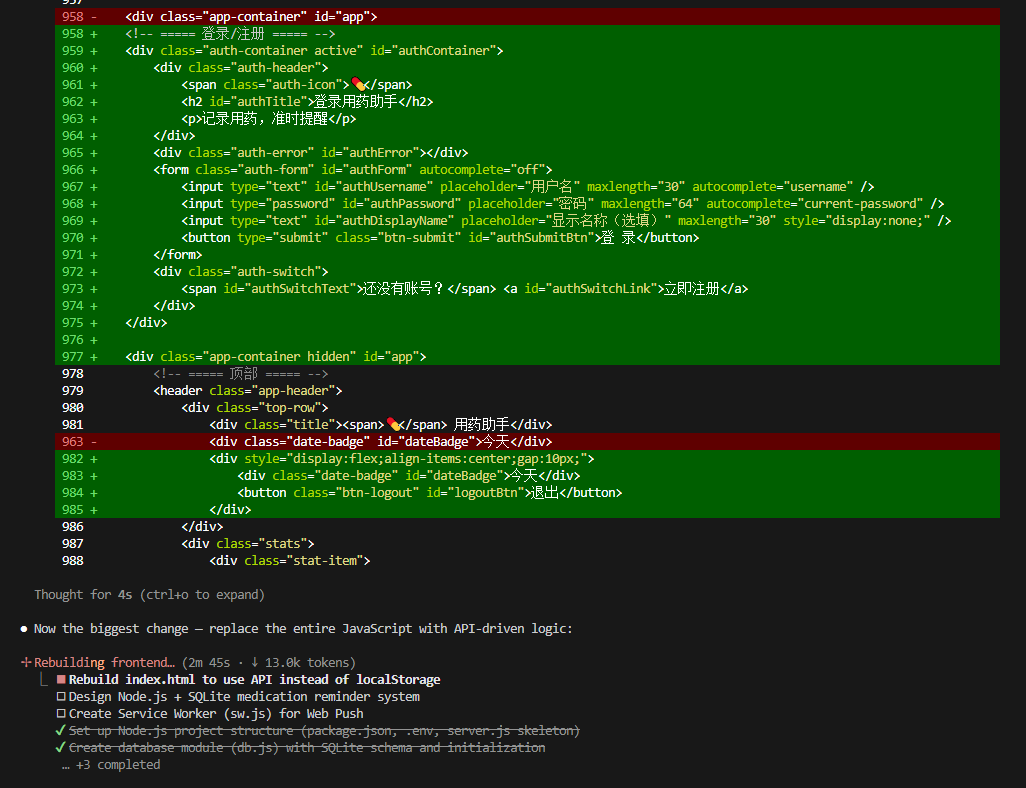
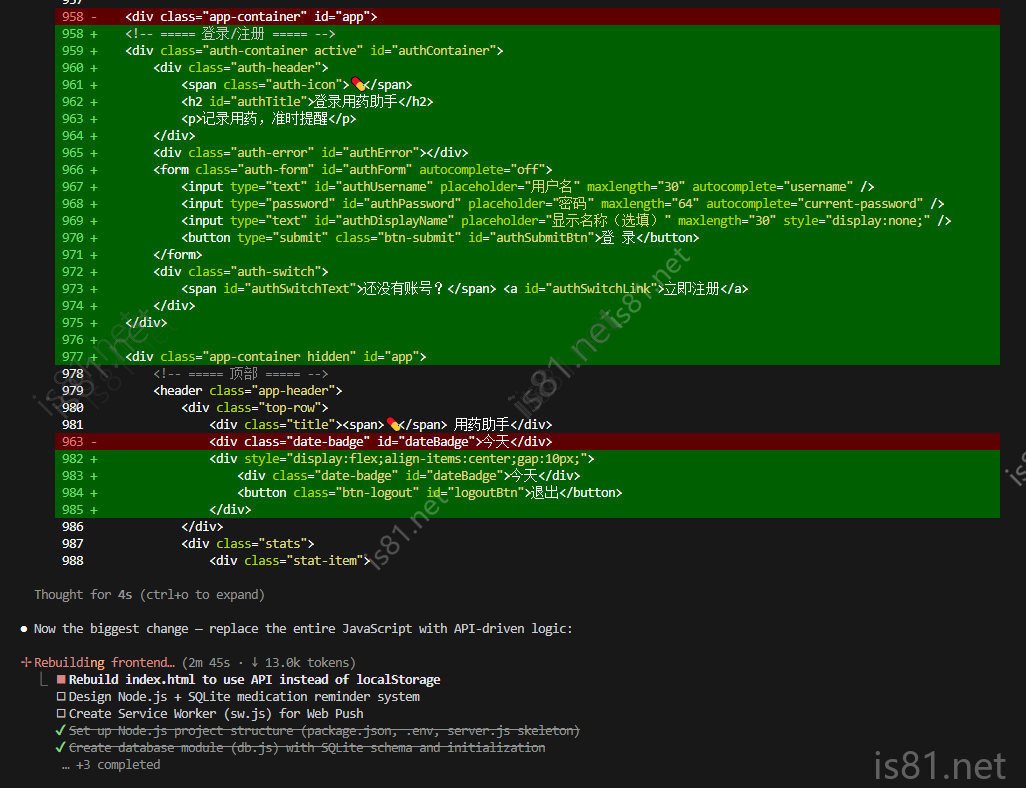
Add watermarks and update dev stories

diff --git a/docs/sig-dev-story-en.md b/docs/sig-dev-story-en.md
@@ -93,11 +93,15 @@ The phone buzzed.
 
 Add to Home Screen on iPhone, and it feels like a native app.
 
-<img src="sig-pic/18%E7%99%BB%E5%BD%95.jpg" width="280" alt="Login"> <img src="sig-pic/19%E6%B7%BB%E5%8A%A0%E8%8D%AF%E5%93%81.jpg" width="280" alt="Add meds">
+![Login](sig-pic/18%E7%99%BB%E5%BD%95.jpg)
 
-<img src="sig-pic/24%E6%B7%BB%E5%8A%A0%E4%BF%A1%E6%81%AF.jpg" width="280" alt="Add info"> <img src="sig-pic/22%E6%B7%BB%E5%8A%A0%E5%85%B1%E4%BA%AB.png" width="280" alt="Add to Home Screen">
+![Add meds](sig-pic/19%E6%B7%BB%E5%8A%A0%E8%8D%AF%E5%93%81.jpg)
 
-<img src="sig-pic/25%E5%BC%80%E5%90%AF%E6%8F%90%E9%86%92.png" width="280" alt="Enable notifications">
+![Add info](sig-pic/24%E6%B7%BB%E5%8A%A0%E4%BF%A1%E6%81%AF.jpg)
+
+![Add to Home Screen](sig-pic/22%E6%B7%BB%E5%8A%A0%E5%85%B1%E4%BA%AB.png)
+
+![Enable notifications](sig-pic/25%E5%BC%80%E5%90%AF%E6%8F%90%E9%86%92.png)
 
 ---
 
